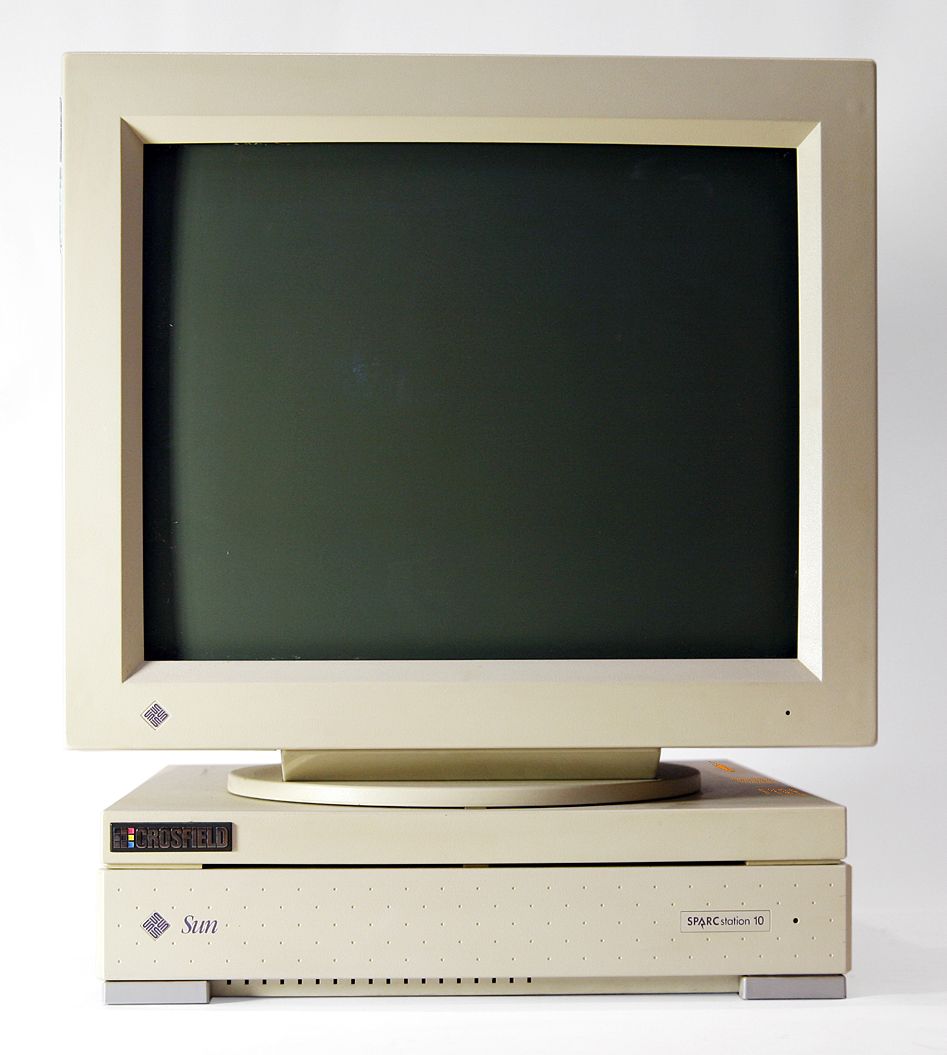
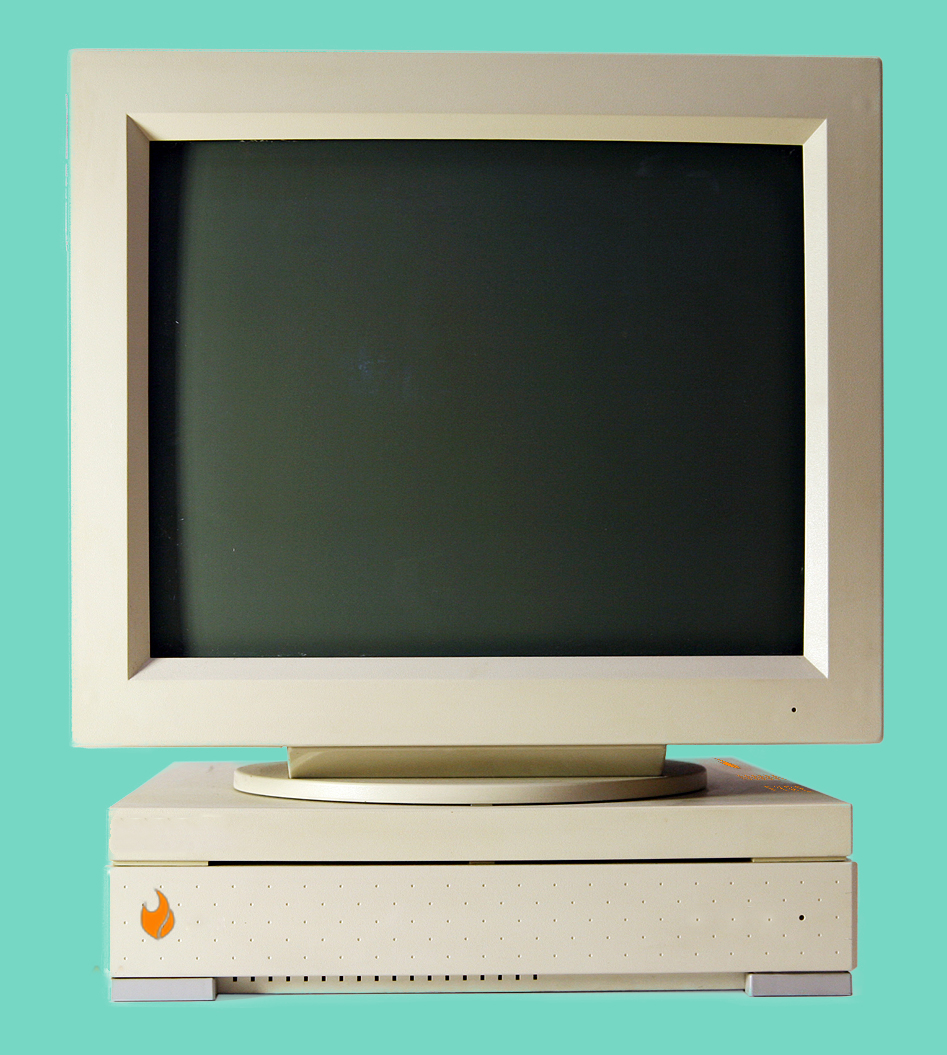
color update

diff --git a/comp/main.css b/comp/main.css
@@ -1,0 +1,12 @@
+body,html{
+  height: 100%;
+  width: 100%;
+  background-color: #76d7c4;
+}
+
+
+#div1 {
+  margin: 10%;
+  border: 50px;
+  align-content: "center";
+}

diff --git a/comp/index.html b/comp/index.html
@@ -10,7 +10,7 @@
     <body>
 
       <div id="div1">
-        <img src="/comp/images/Comp.jpg"
+        <img src="/comp/images/Comp.jpg">
       </div>
 
 
